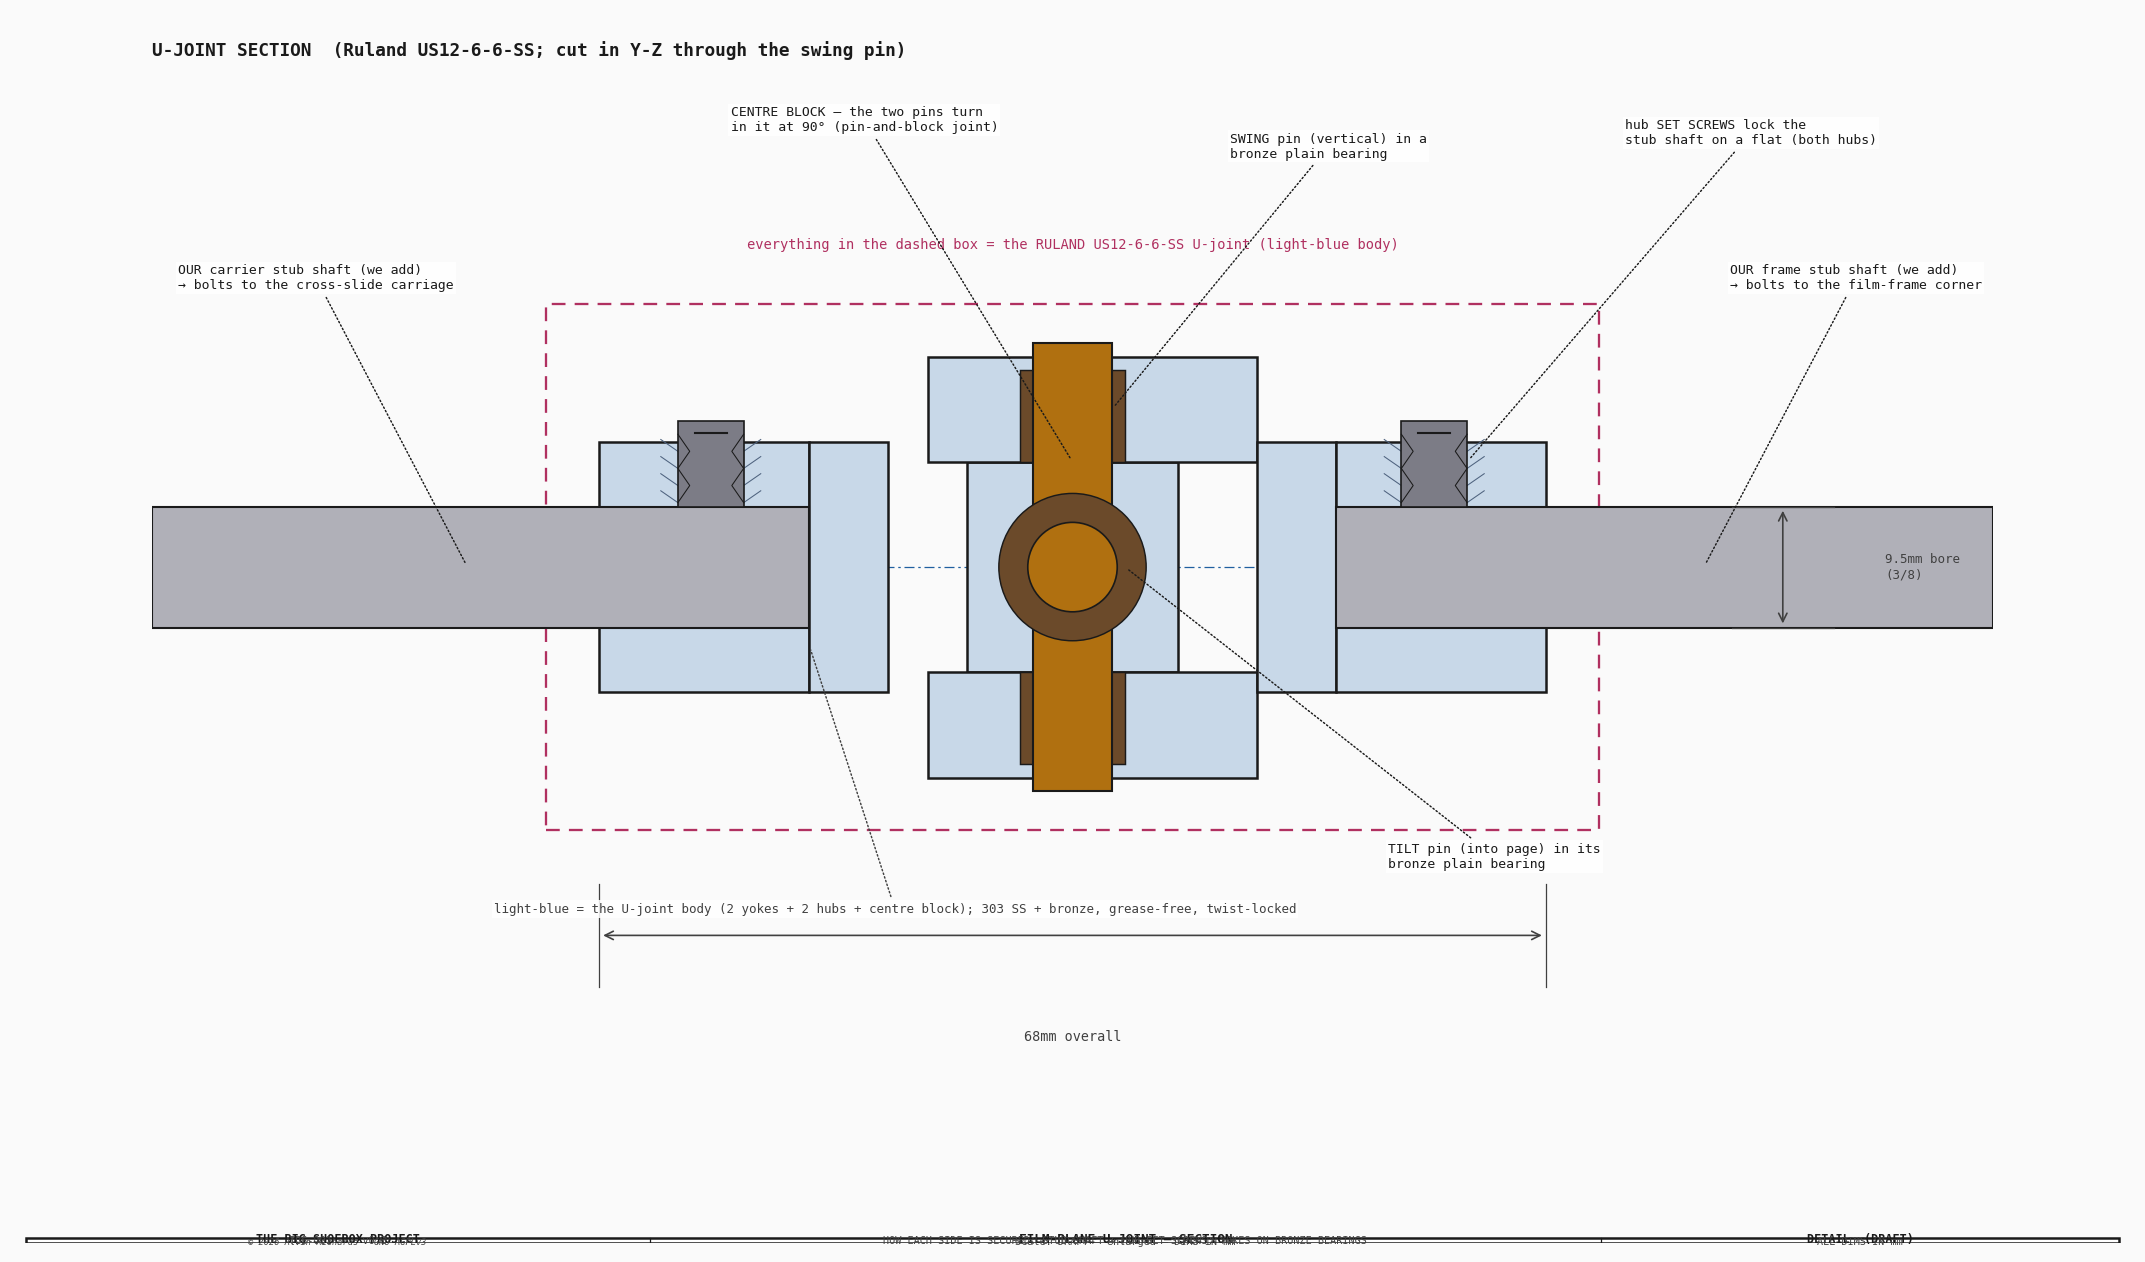
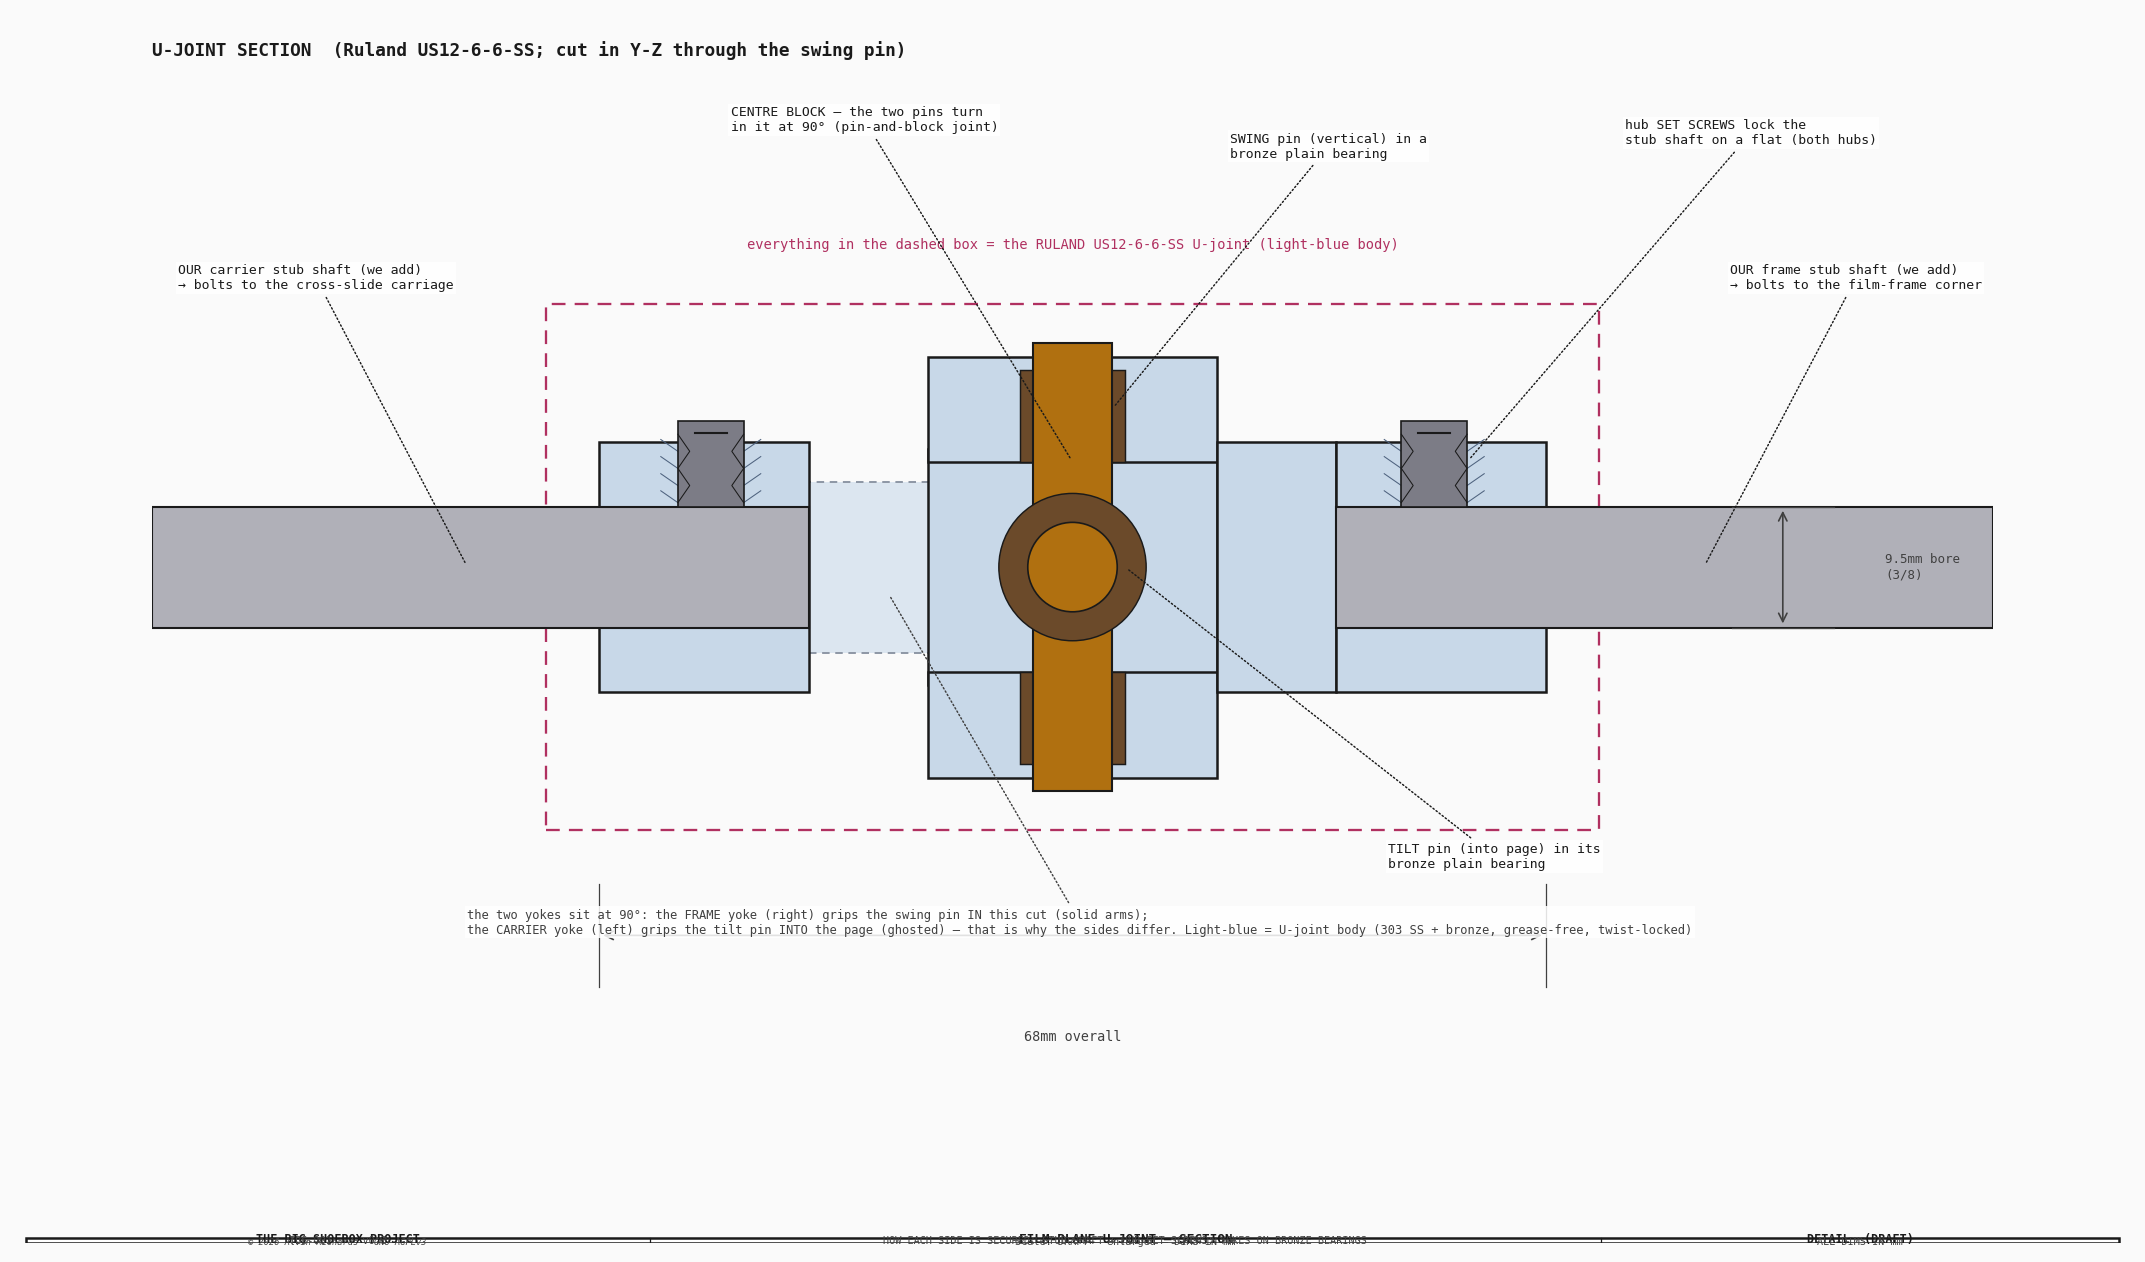
2D draft: A-A red-lug-in-groove + polymer-on-top; U-joint symmetry
Section A-A (review): the polymer no longer fills the groove — the RED carriage
lug now seats in the rail groove (captive, red in the slot), and the self-lube
POLYMER liner sits on the TOP bearing face (the loaded sliding surface).

U-joint section (review): fix the one-sided gap. It is a section through the
swing pin, so the frame yoke (right) is solid in-plane while the carrier yoke
(left) grips the tilt pin INTO the page — now shown ghosted, with the centre
block widened to meet the frame base so neither side has an orphan white gap;
label explains the 90-deg yokes.

Changed region(s): [[0.531, 0.2781, 0.5935, 0.6181], [0.3748, 0.3399, 0.4685, 0.5563], [0.2186, 0.7108, 0.7184, 0.7417]]

diff --git a/src/generators/generate_corner_detail.py b/src/generators/generate_corner_detail.py
@@ -172,21 +172,19 @@ def section_aa(ax):
     _rect(ax, 16, 0, 28, 22, C_STEEL)
     ax.add_patch(plt.Rectangle((16, 9), 5, 6, fc="white", ec=OUT, lw=0.7, zorder=6))    # L groove
     ax.add_patch(plt.Rectangle((39, 9), 5, 6, fc="white", ec=OUT, lw=0.7, zorder=6))    # R groove
-    # self-lube POLYMER liner (tan) — a continuous C between the carriage and the rail on EVERY face
-    _rect(ax, 13, 3, 3, 21, C_POLY, z=6)               # left vertical liner
-    _rect(ax, 44, 3, 3, 21, C_POLY, z=6)               # right vertical liner
-    _rect(ax, 13, 22, 34, 2, C_POLY, z=6)              # top liner (under the web)
-    _rect(ax, 16, 9, 5, 6, C_POLY, z=7)                # left groove liner
-    _rect(ax, 39, 9, 5, 6, C_POLY, z=7)                # right groove liner
-    # carriage (red) — OUTSIDE the polymer liner, so it never touches the rail (no metal-on-metal)
-    _rect(ax, 8, 3, 5, 21, C_CAR, z=5)                 # left wall  (outboard of the tan liner)
-    _rect(ax, 47, 3, 5, 21, C_CAR, z=5)                # right wall
-    _rect(ax, 8, 24, 44, 9, C_CAR, z=5)                # top web — spans wall-to-wall (x8-52)
-    leader(ax, 14, 13, -18, -8, "self-lube POLYMER liner (igus DryLin/iglidur) — between the RED carriage\nand GREY rail on every face; dry, low-friction, adjustable drag; NOT metal-on-metal",
+    # self-lube POLYMER liner (tan) — on the TOP bearing face (the loaded sliding surface)
+    _rect(ax, 16, 22, 28, 2, C_POLY, z=6)              # top liner
+    # carriage (red) — top web + walls down the rail sides + lugs that ENGAGE the grooves (captive)
+    _rect(ax, 11, 24, 38, 9, C_CAR, z=5)               # top web (over the tan liner)
+    _rect(ax, 11, 3, 5, 21, C_CAR, z=5)                # left wall (down the rail's left flank)
+    _rect(ax, 44, 3, 5, 21, C_CAR, z=5)                # right wall
+    _rect(ax, 16, 9, 5, 6, C_CAR, z=7)                 # left lug IN the groove -> captive
+    _rect(ax, 39, 9, 5, 6, C_CAR, z=7)                 # right lug IN the groove
+    leader(ax, 30, 23, 54, 44, "self-lube POLYMER liner (igus DryLin) on the TOP\nbearing face — low-friction under the sliding load",
            ha="left", fs=5.3, color=OUT, font=FONT, bbox=LBL_BG)
-    leader(ax, 30, 28, 56, 44, "carriage wraps the rail\n= captive (can't lift off);\nliner runs the FULL length",
-           ha="left", fs=5.5, color=OUT, font=FONT, bbox=LBL_BG)
-    ax.text(-18, 50, "SECTION A-A  (X × Z) — captive carriage; polymer liner on every contact face",
+    leader(ax, 18, 12, -18, -8, "carriage LUG seats in the rail groove = captive\n(red in the slot; can't lift off; runs the full length)",
+           ha="left", fs=5.3, color=OUT, font=FONT, bbox=LBL_BG)
+    ax.text(-18, 50, "SECTION A-A  (X × Z) — captive carriage; polymer on the top bearing face",
             fontsize=7.3, fontweight="bold", color=OUT, ha="left", va="top", **FONT)
 
 
@@ -258,15 +256,18 @@ def draw_ujoint_section():
             fontsize=6.6, color="#B03060", ha="center", va="bottom", **FONT)
 
     # ── CENTRE BLOCK (pin-and-block): two perpendicular pins run in it ──
-    _body(ax, -8, -8, 16, 16)
-    # frame-side yoke (right) grips the SWING pin (vertical, in the cut plane)
-    _body(ax, -11, 8, 25, 8); _body(ax, -11, -16, 25, 8)
-    _body(ax, 14, -9.5, 6, 19); _body(ax, 20, -9.5, 16, 19)
+    _body(ax, -11, -9, 22, 18)
+    # frame-side yoke (right) grips the SWING pin (vertical, in the cut plane) — arms top + bottom
+    _body(ax, -11, 8, 22, 8); _body(ax, -11, -16, 22, 8)
+    _body(ax, 11, -9.5, 9, 19); _body(ax, 20, -9.5, 16, 19)
     draw_rect(ax, -3, -17, 6, 34, fc=C_PIN, color=OUT, lw=1.0, zorder=7)          # swing pin
     draw_rect(ax, -4, 8, 8, 7, fc=C_BRZ, color=OUT, lw=0.7, zorder=6)             # bronze bearings
     draw_rect(ax, -4, -15, 8, 7, fc=C_BRZ, color=OUT, lw=0.7, zorder=6)
-    # carrier-side yoke (left) grips the TILT pin (into page)
-    _body(ax, -36, -9.5, 16, 19); _body(ax, -20, -9.5, 6, 19)
+    # carrier-side yoke (left) grips the TILT pin (into page). Its two arms are PERPENDICULAR to this
+    # cut, so only its hub is solid here; its body reaching the tilt pin is shown GHOSTED (into page).
+    _body(ax, -36, -9.5, 16, 19)                       # left hub
+    ax.add_patch(plt.Rectangle((-20, -6.5), 13.5, 13, fc="#DCE6F0", ec="#8A93A2",
+                               lw=0.9, ls=(0, (4, 3)), zorder=3))                 # ghosted into-page body
     draw_circle(ax, 0, 0, 5.6, color=OUT, fill=True, fc=C_BRZ, lw=0.7, zorder=8)  # tilt bearing (ring)
     draw_circle(ax, 0, 0, 3.4, color=OUT, fill=True, fc=C_PIN, lw=0.8, zorder=9)  # tilt pin (into page)
 
@@ -295,9 +296,10 @@ def draw_ujoint_section():
            ha="left", fs=6.3, color=OUT, font=FONT, bbox=LBL_BG)
     leader(ax, 4, 0, 24, -22, "TILT pin (into page) in its\nbronze plain bearing",
            ha="left", fs=6.3, color=OUT, font=FONT, bbox=LBL_BG)
-    leader(ax, -20, -6, -44, -26, "light-blue = the U-joint body (2 yokes + 2 hubs + centre block); "
-           "303 SS + bronze, grease-free, twist-locked",
-           ha="left", fs=6.0, color=DIM, font=FONT, bbox=LBL_BG)
+    leader(ax, -14, -2, -46, -27, "the two yokes sit at 90°: the FRAME yoke (right) grips the swing pin IN this cut "
+           "(solid arms);\nthe CARRIER yoke (left) grips the tilt pin INTO the page (ghosted) — that is why the sides differ. "
+           "Light-blue = U-joint body (303 SS + bronze, grease-free, twist-locked)",
+           ha="left", fs=5.8, color=DIM, font=FONT, bbox=LBL_BG)
 
     ax.text(-70, 40, "U-JOINT SECTION  (Ruland US12-6-6-SS; cut in Y-Z through the swing pin)",
             fontsize=8.5, fontweight="bold", color=OUT, ha="left", va="top", **FONT)
